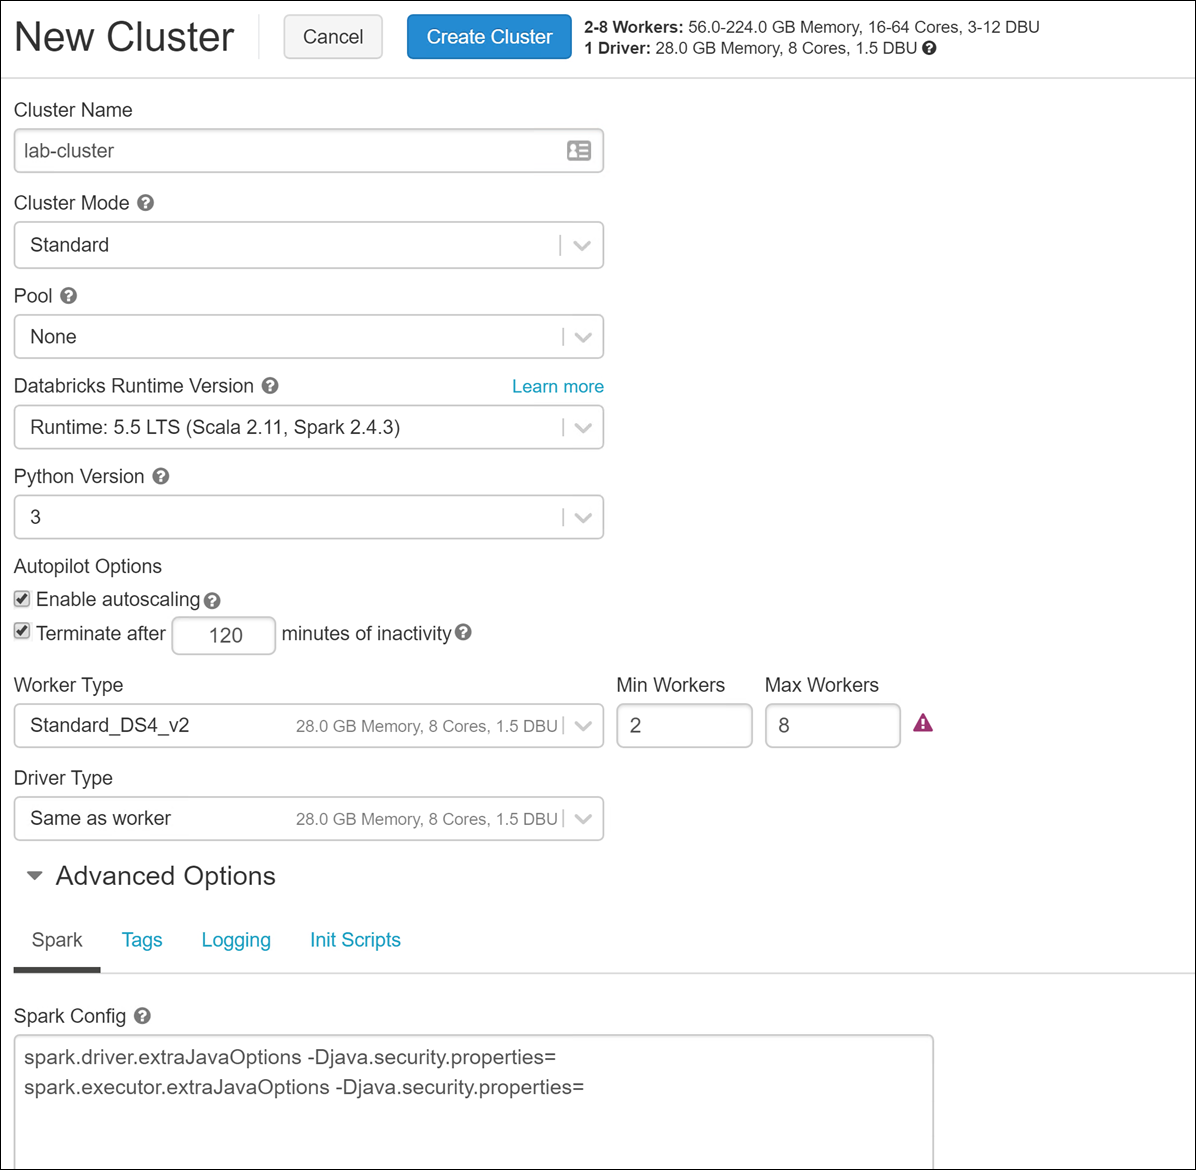
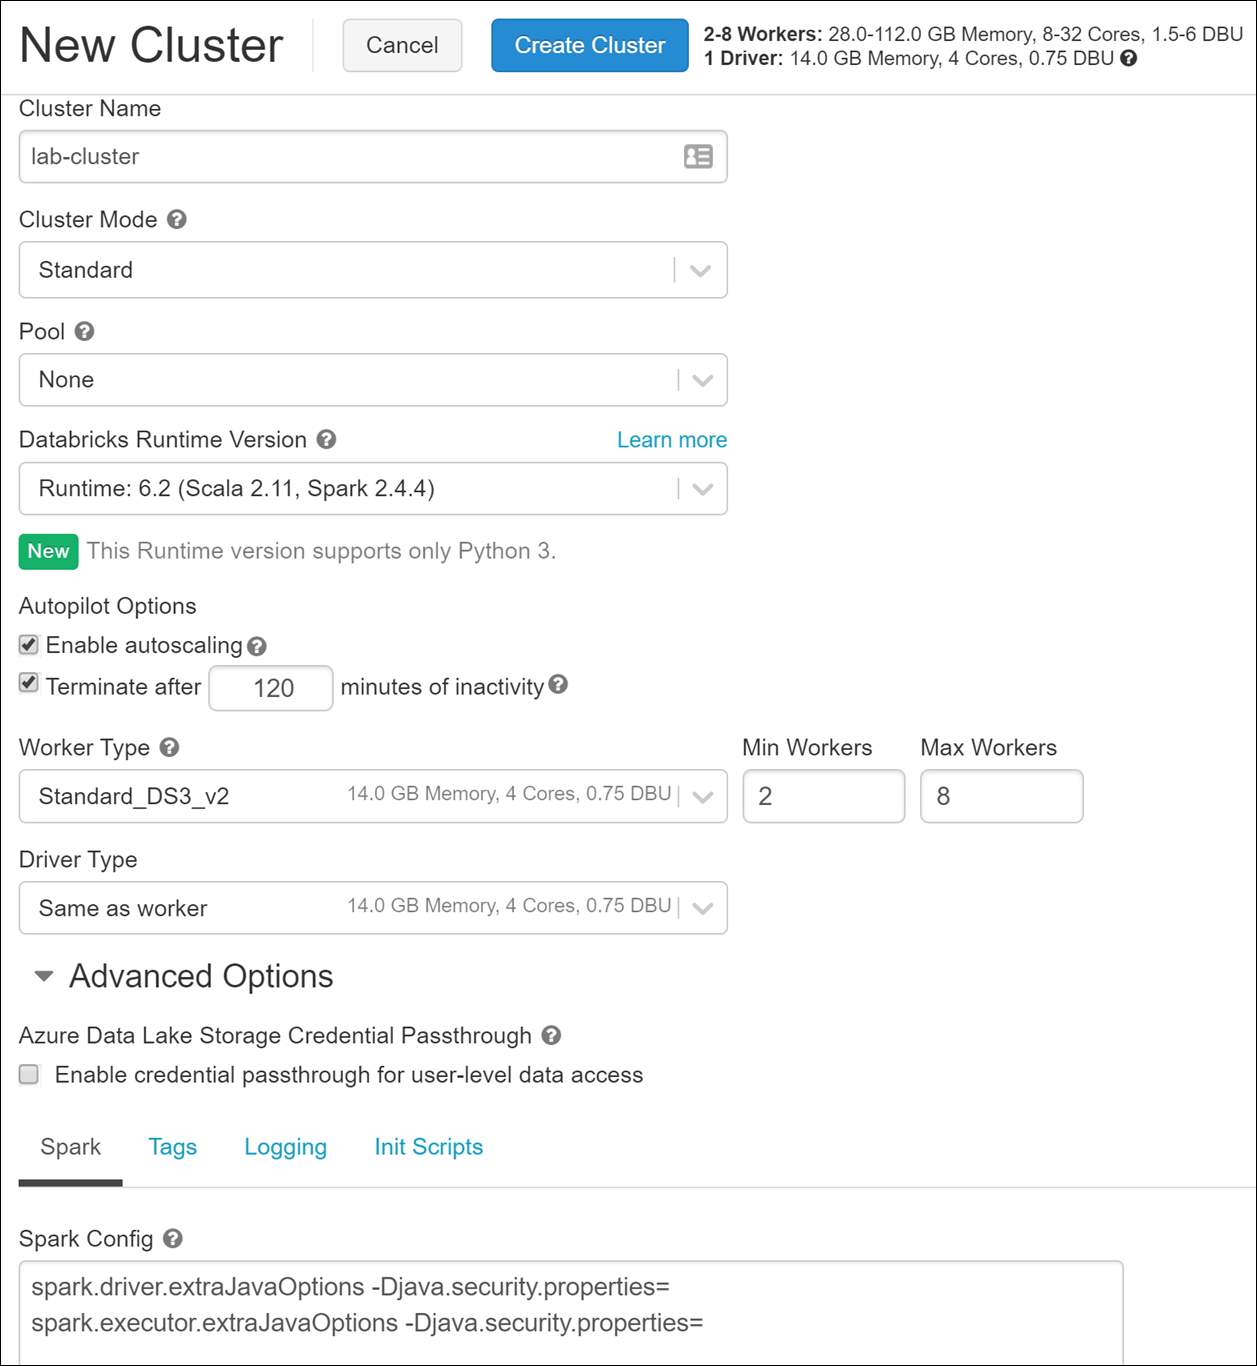
Updated Exercise 2

diff --git a/Hands-on lab/HOL step-by step - Real-time data with Azure Database for PostgreSQL Hyperscale.md b/Hands-on lab/HOL step-by step - Real-time data with Azure Database for PostgreSQL Hyperscale.md
@@ -480,11 +480,11 @@ In this task, you will connect to your Azure Databricks workspace and create a c
 
    - **Cluster Name**: Enter a name for your cluster, such as lab-cluster.
    - **Cluster Mode**: Select Standard.
-   - **Databricks Runtime Version**: Select Runtime: 5.5 LTS (Scala 2.11, Spark 2.4.3).
-   - **Python Version**: Select 3.
+   - **Pool**: Select None.
+   - **Databricks Runtime Version**: Select Runtime: 6.2 (Scala 2.11, Spark 2.4.4).
    - **Enable autoscaling**: Ensure this is checked.
    - **Terminate after XX minutes of inactivity**: Leave this checked, and the number of minutes set to 120.
-   - **Worker Type**: Select Standard_DS4_v2.
+   - **Worker Type**: Select Standard_DS3_v2.
      - **Min Workers**: Leave set to 2.
      - **Max Workers**: Leave set to 8.
    - **Driver Type**: Set to Same as worker.
